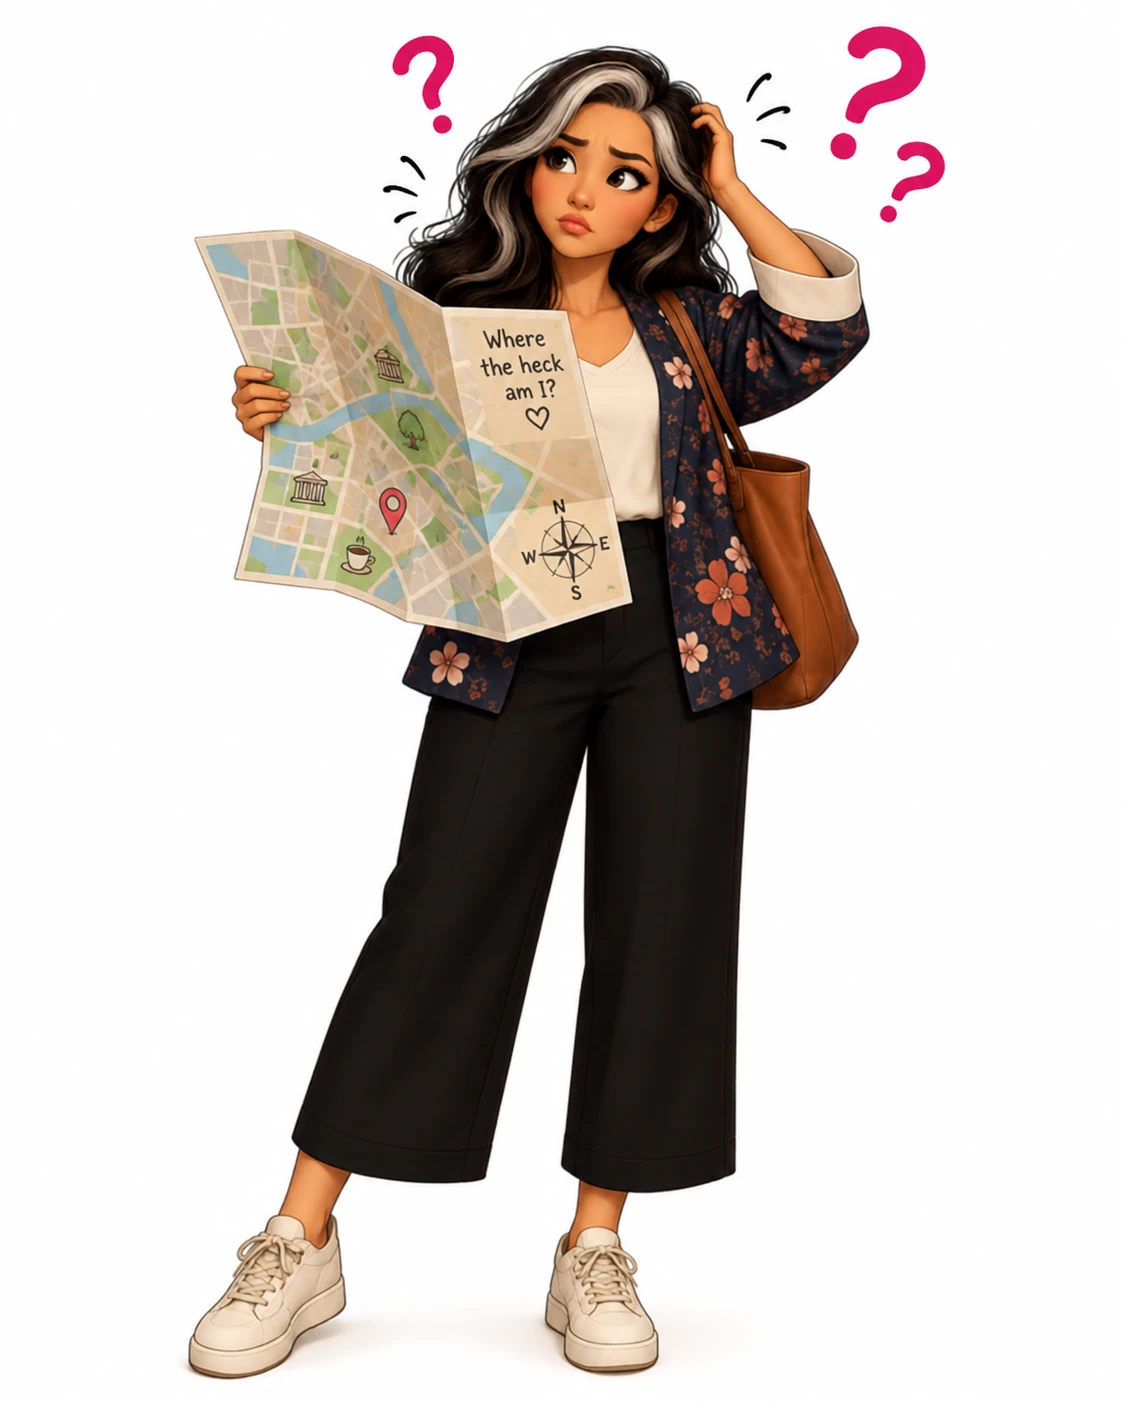
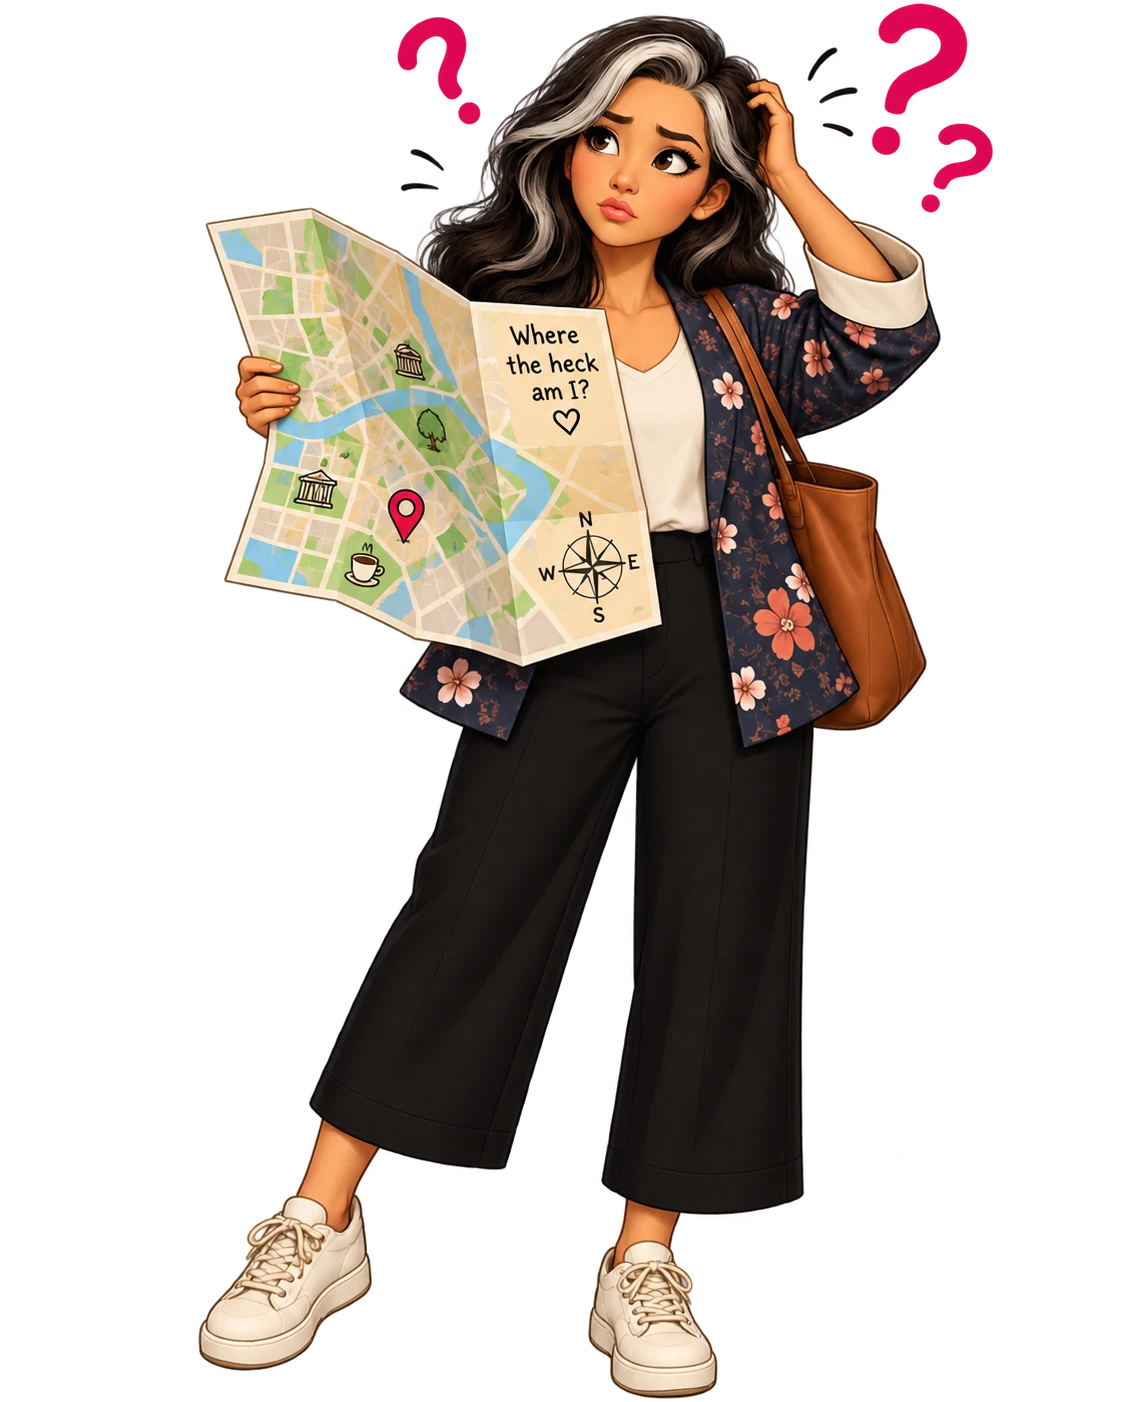
Set 404 as a display numeral and use the cut-out illustration
The replacement image carries a real alpha channel, so the multiply
blend added with the previous one is removed -- with transparency it is
not just unnecessary but wrong, since multiply would tint the artwork's
own light areas against the page.

"404" was rendering at the .eyebrow size, .76rem, which is right for a
small uppercase label above a heading and far too quiet for the thing
the page is about. It is now a display numeral, about twice the height
of the h1 beneath it, without the uppercase transform and letter
spacing that only make sense for words. Scoped to the 404 page, since
.eyebrow is shared across the whole site.

Claude-Session: https://claude.ai/code/session_018tBWsXGAcaSZHXKhadufiv

Changed region(s): [[0.156, 0.0, 0.9046, 1.0], [0.156, 0.7668, 0.4367, 1.0], [0.2807, 0.7054, 0.3119, 0.7668]]

diff --git a/app/forms.css b/app/forms.css
@@ -112,13 +112,22 @@
    only when there is an image to place next to it. */
 .not-found-page{max-width:960px;display:grid;grid-template-columns:minmax(0,1fr) minmax(0,340px);gap:clamp(24px,5vw,56px);align-items:center}
 .not-found-copy{min-width:0}
-/* The illustration has no alpha channel -- its background is baked-in white,
-   which would sit as a hard white rectangle on the cream page. Multiply blends
-   that white into whatever is behind it while leaving the artwork's own colours
-   alone. It only works over a light backdrop, so the dark theme (defined but
-   not currently applied anywhere) gets an explicit white panel instead. */
-.not-found-art{width:100%;height:auto;justify-self:center;mix-blend-mode:multiply}
-.dark .not-found-art{mix-blend-mode:normal;background:#fff;border-radius:var(--radius)}
+/* This illustration carries a real alpha channel, so it needs no blend trick to
+   sit on the cream page -- and must not have one, since multiply would tint the
+   artwork's own light areas against the background. */
+.not-found-art{width:100%;height:auto;justify-self:center}
+
+/* "404" is the page's visual anchor, so it is set as a display numeral rather
+   than the small uppercase label .eyebrow gives every other page. Scoped here:
+   the shared .eyebrow is used across the whole site. */
+.not-found-page .eyebrow{
+  font-family:var(--font-display,Georgia,serif);
+  font-size:clamp(4.5rem,15vw,9.5rem);
+  line-height:.85;
+  letter-spacing:-.02em;
+  text-transform:none;
+  margin:0 0 .1em -.04em;
+}
 @media (max-width:760px){
   .not-found-page{grid-template-columns:1fr;gap:20px}
   /* Copy first: the message matters more than the picture on a small screen. */
